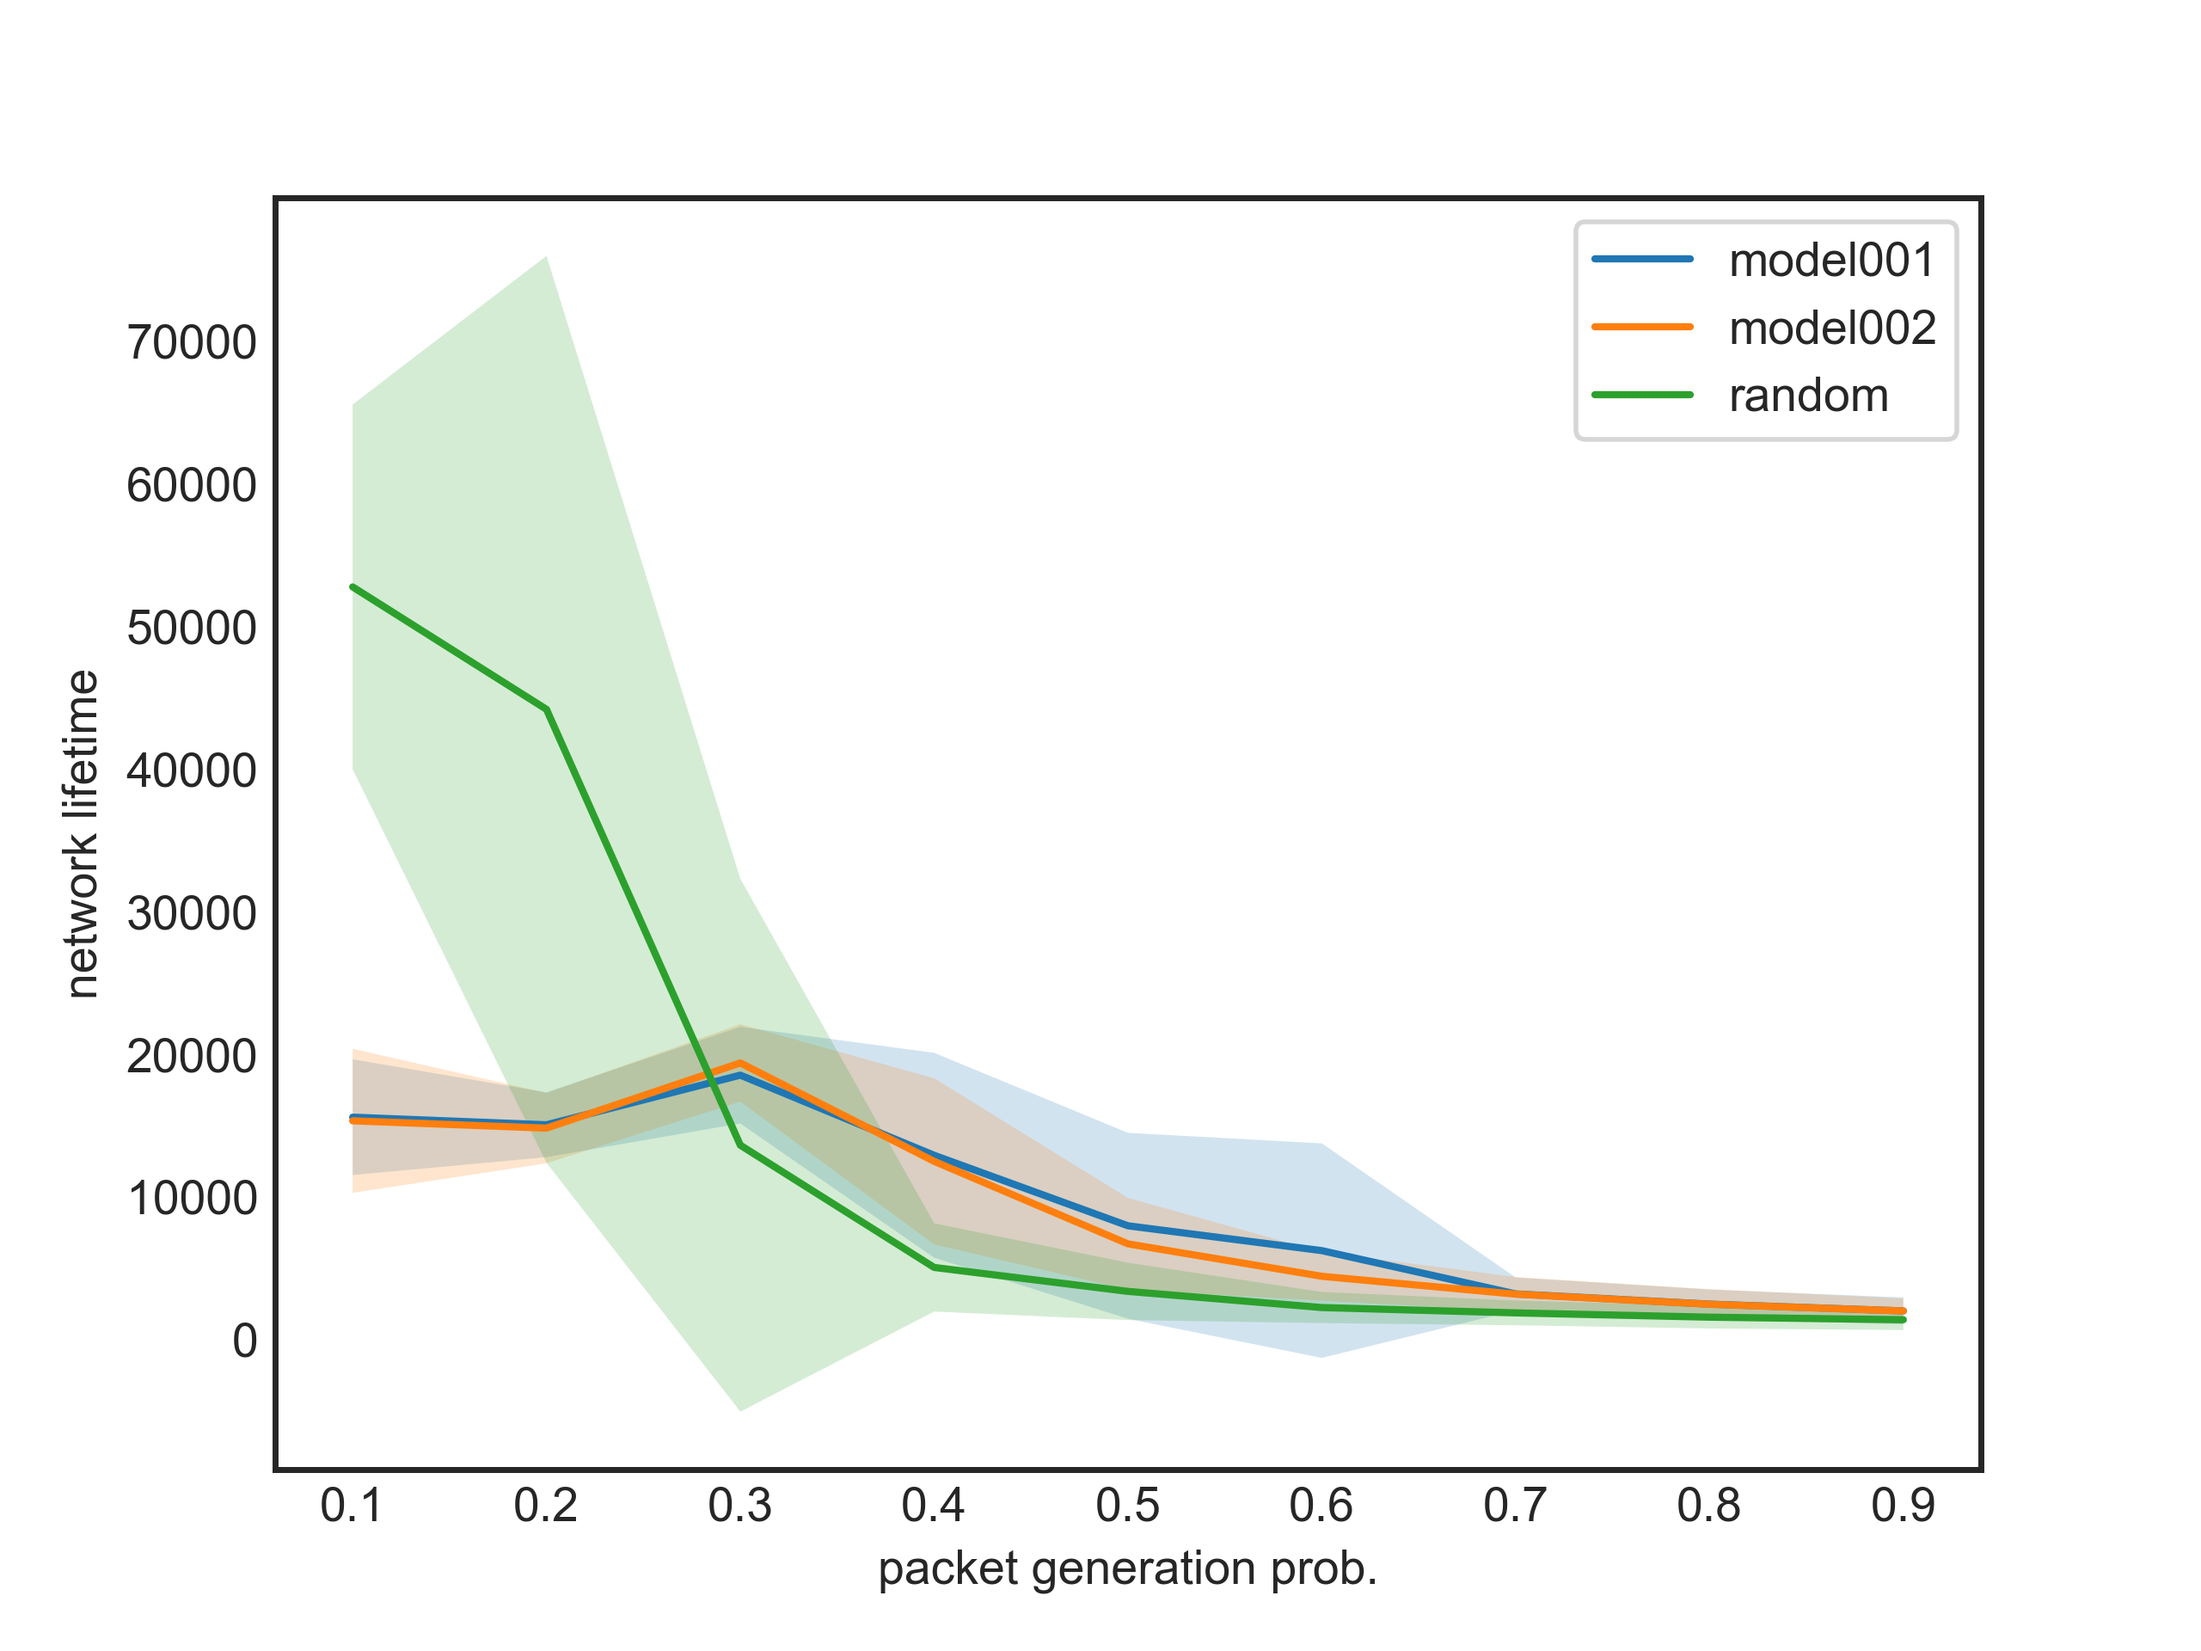
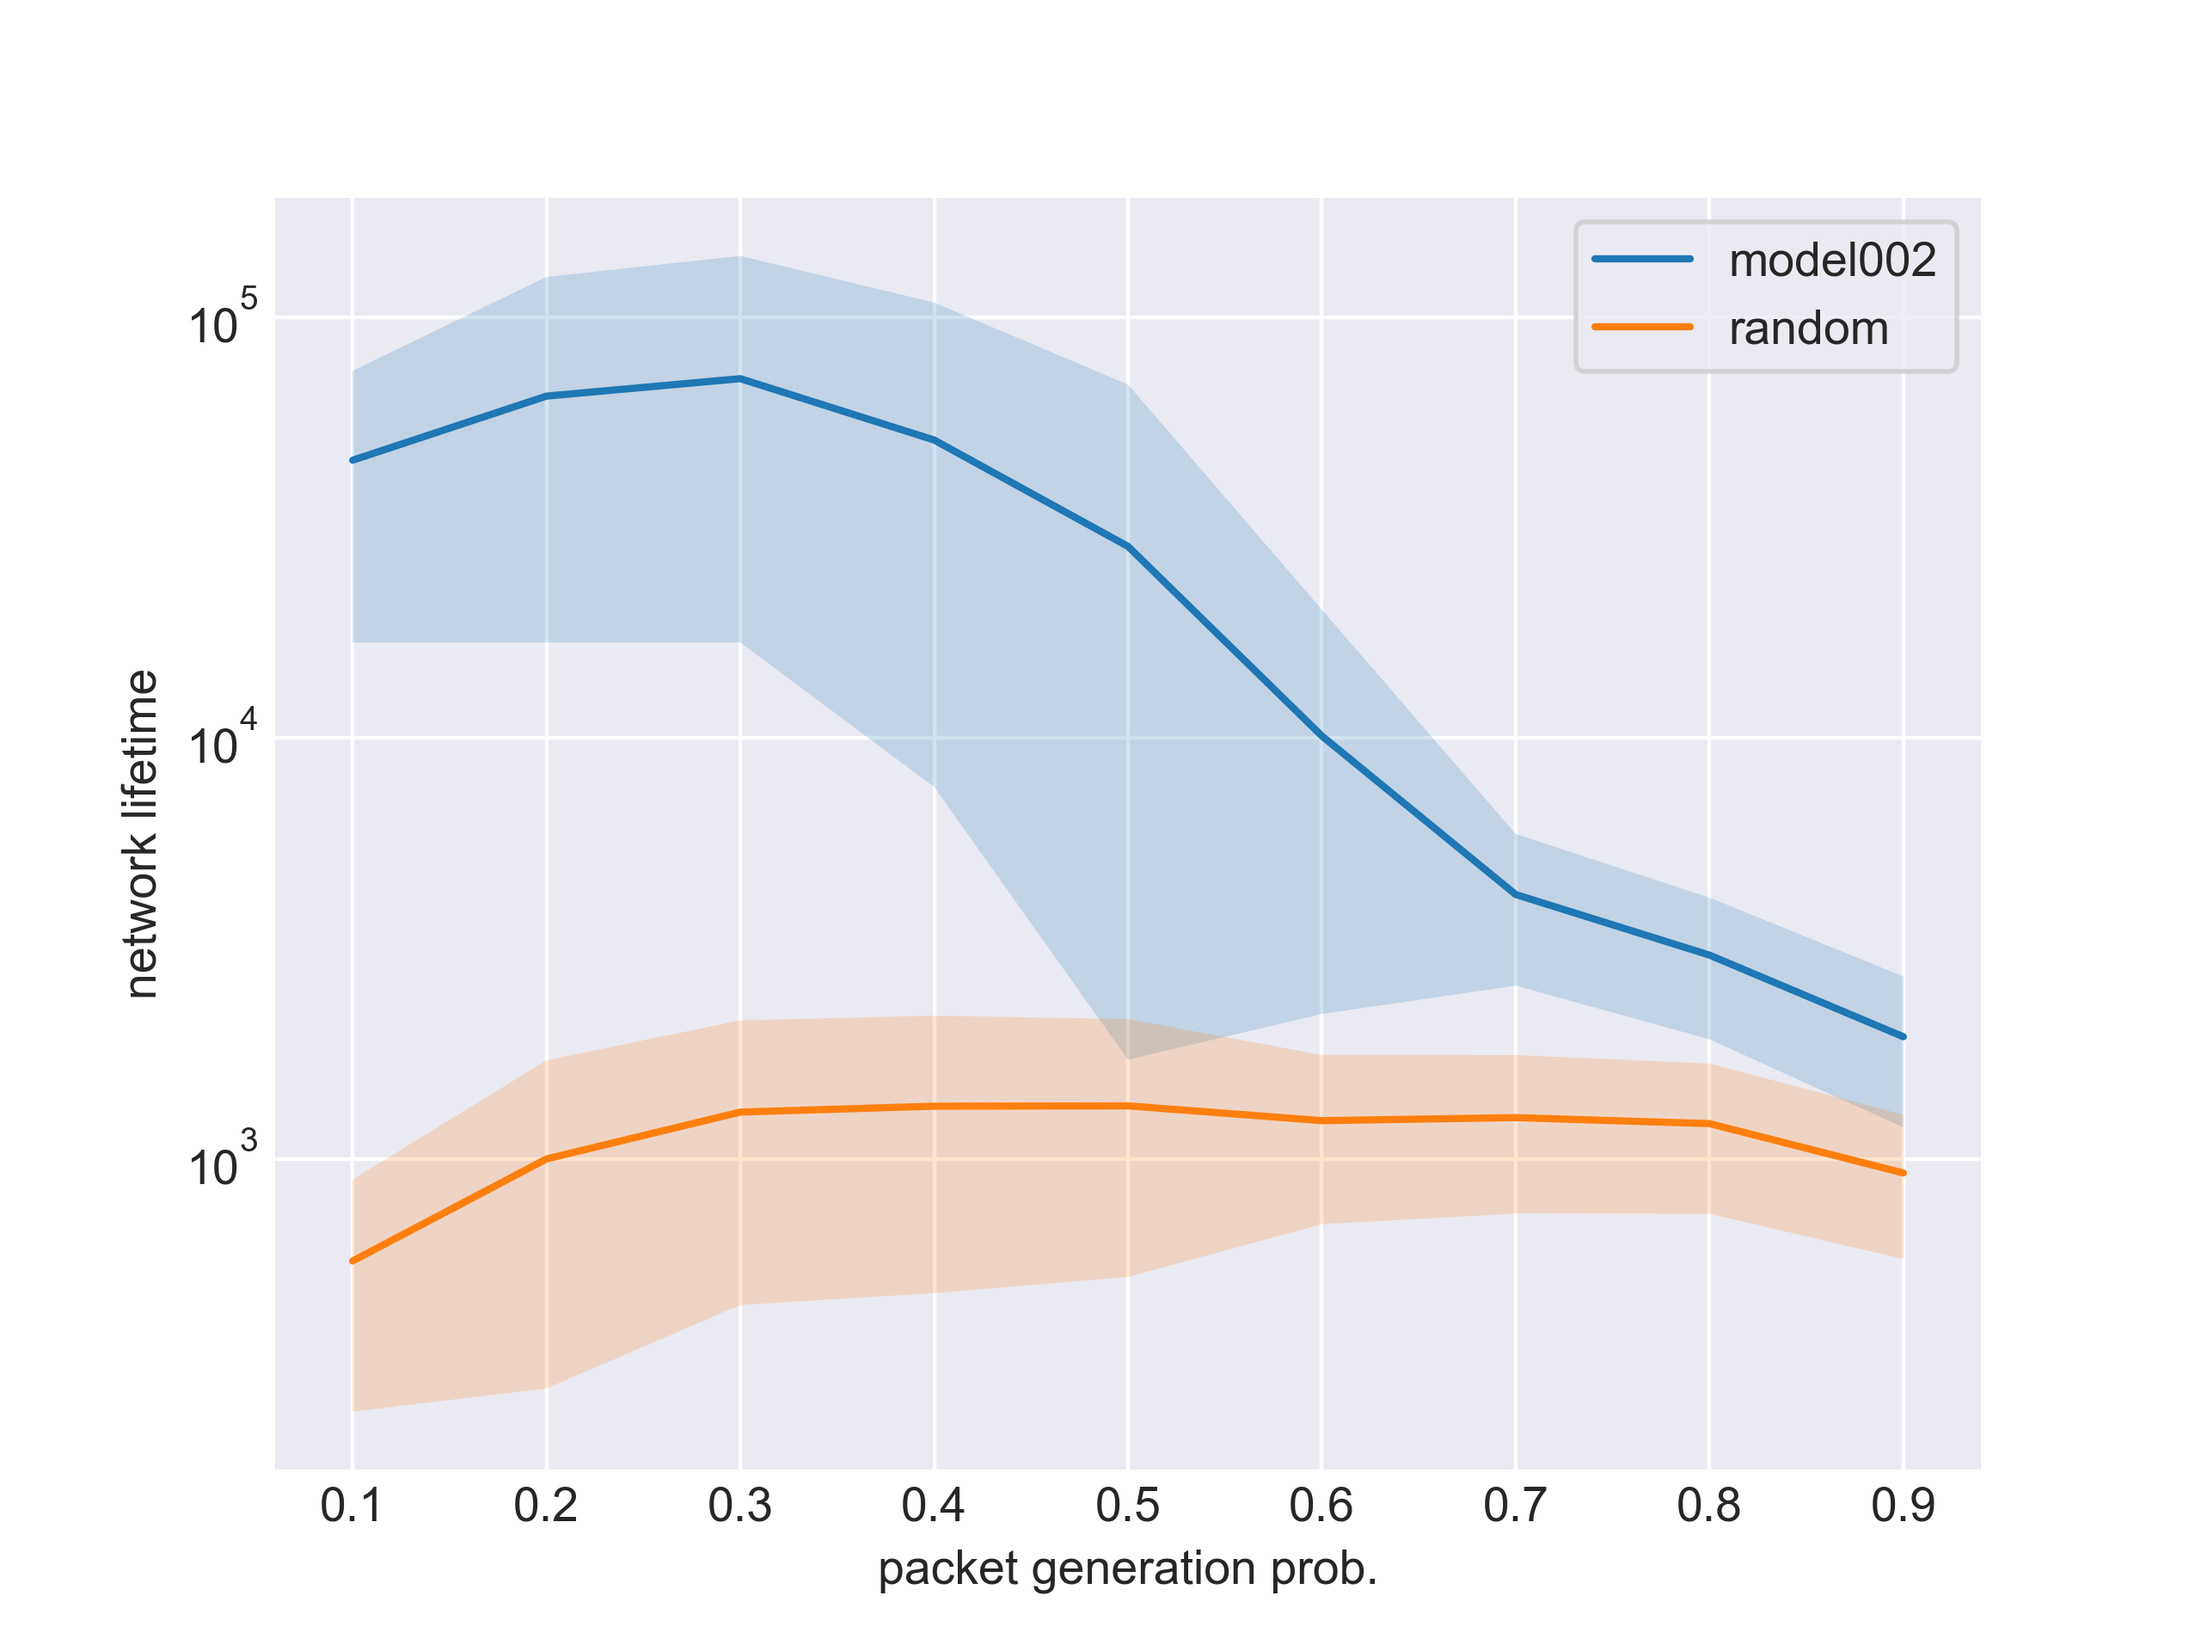
update experiment results

diff --git a/run.py b/run.py
@@ -23,16 +23,27 @@ solvers = {
 }
 
 
-def plot_mean_std(x, data, xlabel, ylabel, title, save_dir, plot_std=True):
-    plt.style.use('seaborn-white')
+def plot_mean_std(x, data, xlabel, ylabel, title, save_dir, plot_std=True,
+                  yscale=None, smooth_k=1):
+    def smooth(y, box_pts):
+        box = np.ones(box_pts)/box_pts
+        y_smooth = np.convolve(y, box, mode='same')
+        return y_smooth
 
+    plt.style.use('seaborn-darkgrid')
+    
     fig, ax = plt.subplots()
     for name, (mean, std) in data.items():
-        ax.plot(x, mean, label=name)
+        ax.plot(x, smooth(mean, smooth_k), label=name)
         if plot_std:
-            ax.fill_between(x, mean - std, mean + std, alpha=0.2)
+            ax.fill_between(x, 
+                            smooth(np.clip(mean - std, 0.0, np.inf), smooth_k), 
+                            smooth(np.clip(mean + std, 0.0, np.inf), smooth_k), 
+                            alpha=0.2)
 
     ax.legend(frameon=True)
+    if yscale is not None:
+        plt.yscale(yscale)
     ax.set_xlabel(xlabel)
     ax.set_ylabel(ylabel)
     # ax.set_title(title)
@@ -71,10 +82,10 @@ def run_ept_1_2(ept, seed=123, save_dir='results', rerun=[]):
         step = ec.ept2.step
 
         res = defaultdict(list)
+        test_data = WRSNDataset(num_sensors, num_targets, ec.ept2.test_size, seed)
+        data_loader = DataLoader(test_data, 1, False, num_workers=0)
 
         for prob in np.arange(min_prob, max_prob, step):
-            test_data = WRSNDataset(num_sensors, num_targets, ec.ept2.test_size, seed)
-            data_loader = DataLoader(test_data, 1, False, num_workers=0)
             wp.k_bit = ec.ept2.k_bit * prob
 
             for name, solver in solvers.items():
@@ -127,7 +138,8 @@ def run_ept_1_2(ept, seed=123, save_dir='results', rerun=[]):
     x = np.array(idx)
     xlabel = 'no. sensors' if ept == 1 else 'packet generation prob.'
         
-    plot_mean_std(x, lifetimes, xlabel, 'network lifetime', 'lifetime', save_dir)
+    plot_mean_std(x, lifetimes, xlabel, 'network lifetime', 'lifetime', 
+                  save_dir, yscale='log', smooth_k=4)
     plot_mean_std(x, node_failures, xlabel, 'node failures', 'node_failures', save_dir)
     plot_mean_std(x, aggregated_ecr, xlabel, 'agg. energy consumption rate', 'agg_ecr', save_dir)
 

diff --git a/model002.py b/model002.py
@@ -18,11 +18,11 @@ def run(data_loader, name, save_dir):
                     dp.dropout).to(device)
 
     save_dir = os.path.join(save_dir, name)
-    checkpoint = 'model002/checkpoints/mc_20_10_1_small'
+    checkpoint = 'model002/checkpoints/mc_20_10_2_small'
     path = os.path.join(checkpoint, 'actor.pt')
     actor.load_state_dict(torch.load(path, device))
 
-    ret = model002.validate(data_loader, actor, render=False)
+    ret = model002.validate(data_loader, actor, render=False, max_step=3000)
 
     return ret
 
